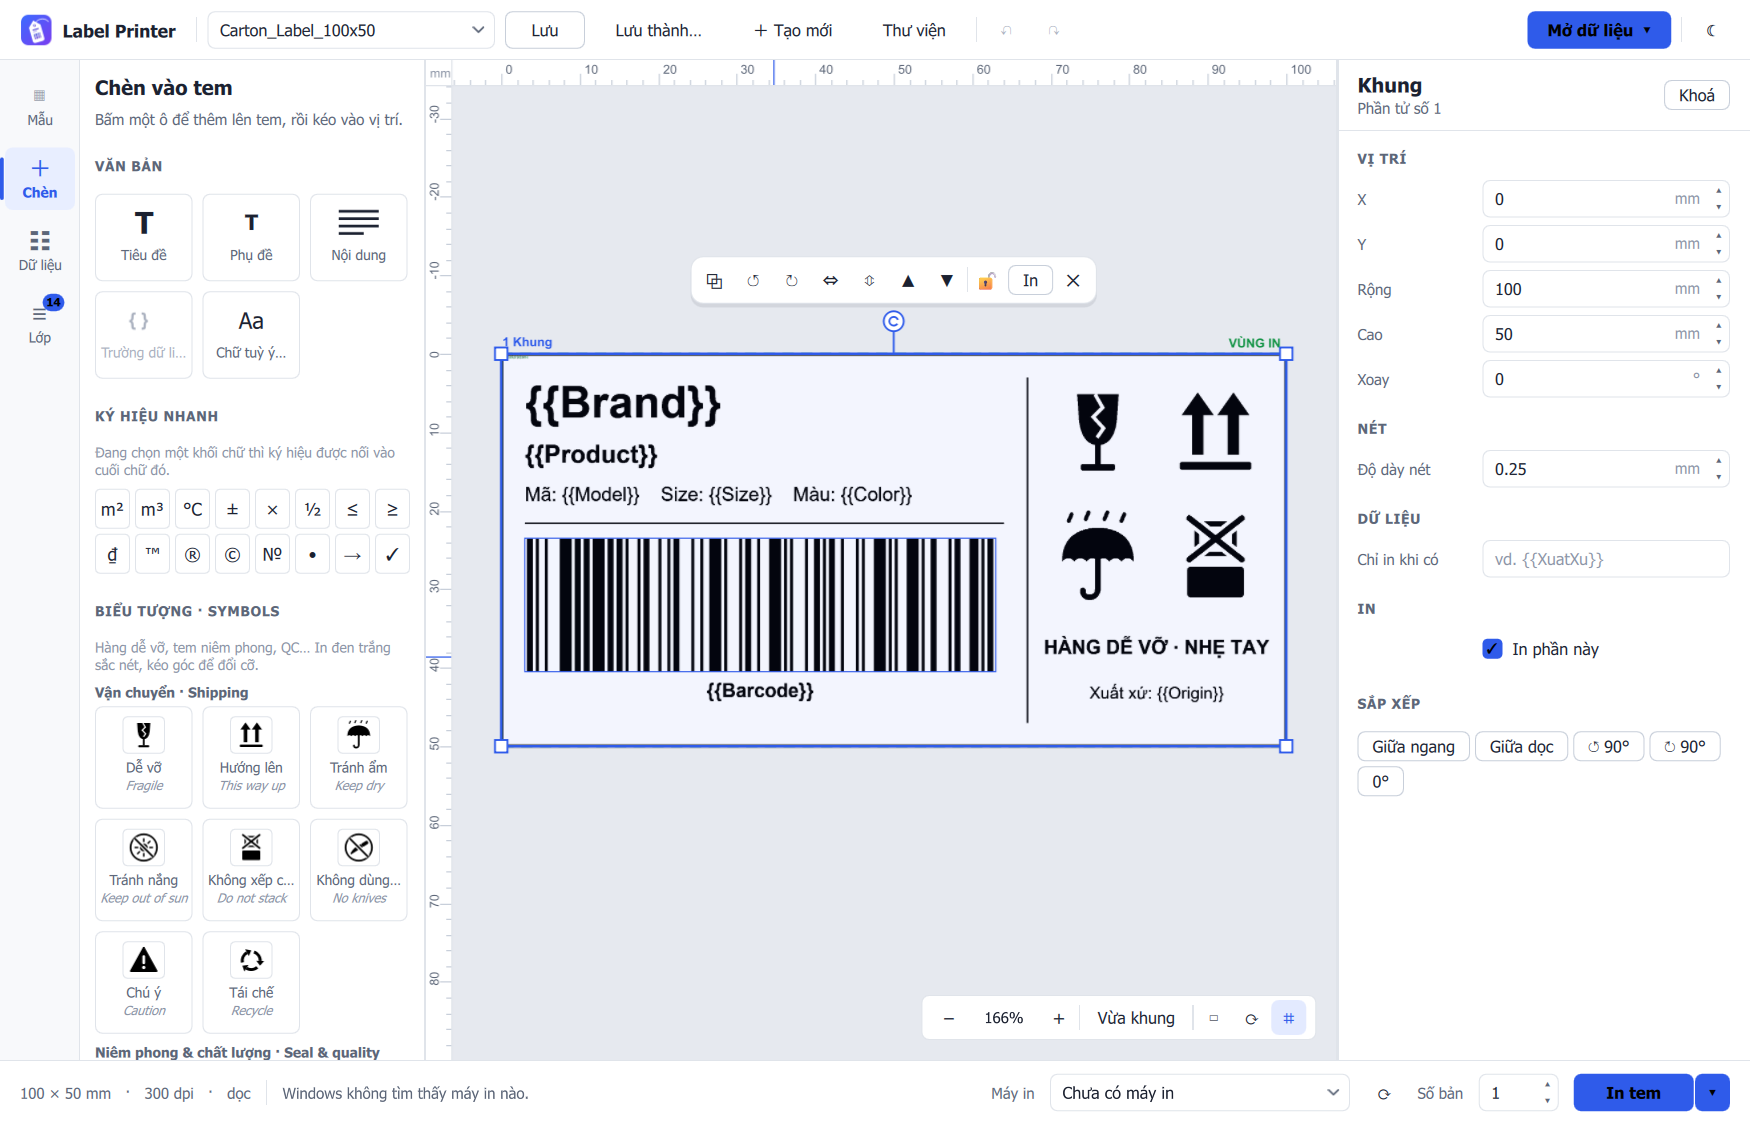
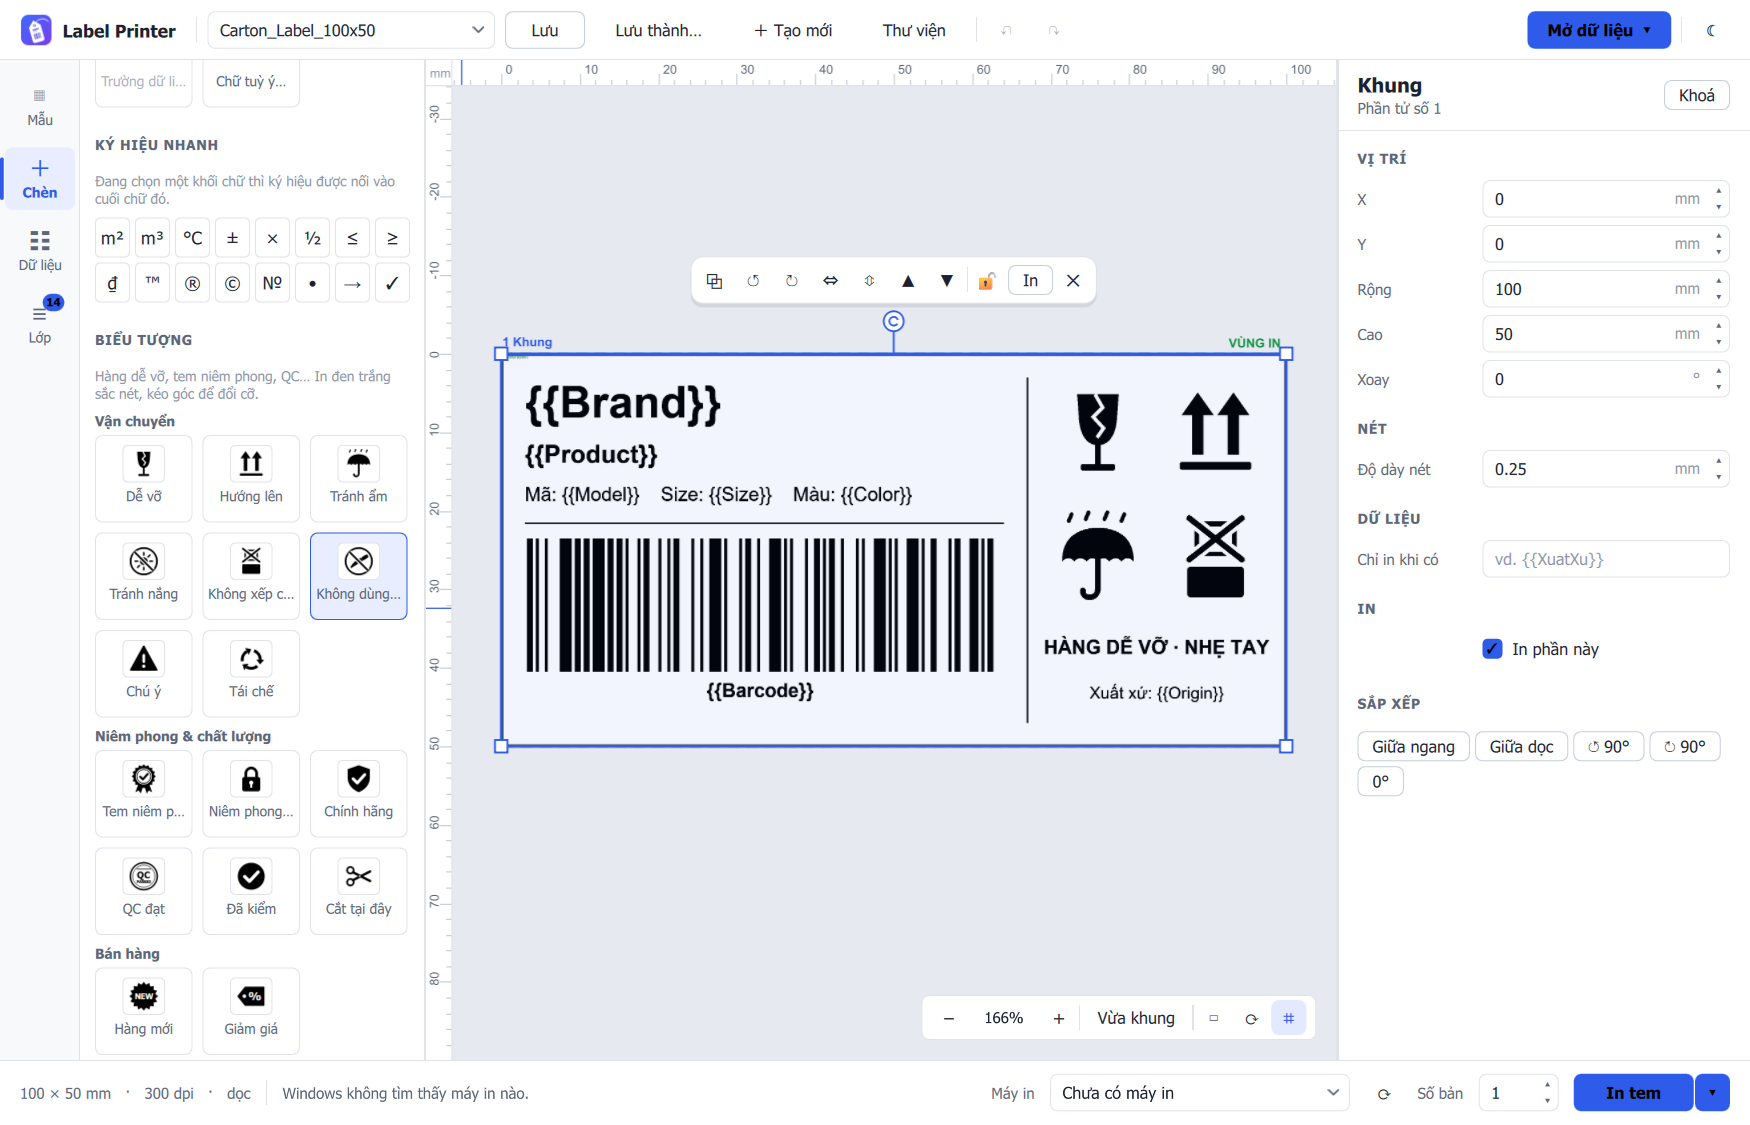
Symbol names follow the app language; release 22.5.2
- Insert palette shows each symbol's name in the UI language only (Vietnamese), no English second line.
- Font test pattern prints a neutral sample line.

Changed region(s): [[0.0309, 0.0622, 0.2469, 0.84], [0.0617, 0.84, 0.216, 0.9644]]

diff --git a/labelapp/ui/qml/panels/LeftPanel.qml b/labelapp/ui/qml/panels/LeftPanel.qml
@@ -149,20 +149,22 @@ Panel {
                         }
                     }
 
-                    SectionHeader { text: "Biểu tượng · Symbols"; Layout.fillWidth: true; Layout.leftMargin: Theme.s3; Layout.rightMargin: Theme.s3; Layout.topMargin: Theme.s2 }
+                    SectionHeader { text: "Biểu tượng"; Layout.fillWidth: true; Layout.leftMargin: Theme.s3; Layout.rightMargin: Theme.s3; Layout.topMargin: Theme.s2 }
                     Text { text: "Hàng dễ vỡ, tem niêm phong, QC… In đen trắng sắc nét, kéo góc để đổi cỡ."; Layout.fillWidth: true
                         Layout.leftMargin: Theme.s3; Layout.rightMargin: Theme.s3; wrapMode: Text.Wrap
                         font.family: Theme.fontFamily; font.pixelSize: Theme.fsXs; color: Theme.textFaint }
                     Repeater {
+                        // t = name shown in the app (its UI language, Vietnamese); e = English name, used only by the
+                        // README symbol gallery (tools/make_symbol_sheet.py).
                         model: [
-                            { title: "Vận chuyển · Shipping", items: [
+                            { title: "Vận chuyển", items: [
                                 { k: "fragile", t: "Dễ vỡ", e: "Fragile" }, { k: "this_way_up", t: "Hướng lên", e: "This way up" }, { k: "keep_dry", t: "Tránh ẩm", e: "Keep dry" },
                                 { k: "keep_away_sun", t: "Tránh nắng", e: "Keep out of sun" }, { k: "do_not_stack", t: "Không xếp chồng", e: "Do not stack" },
                                 { k: "no_knife", t: "Không dùng dao", e: "No knives" }, { k: "warning", t: "Chú ý", e: "Caution" }, { k: "recycle", t: "Tái chế", e: "Recycle" } ] },
-                            { title: "Niêm phong & chất lượng · Seal & quality", items: [
+                            { title: "Niêm phong & chất lượng", items: [
                                 { k: "seal", t: "Tem niêm phong", e: "Seal" }, { k: "seal_lock", t: "Niêm phong khoá", e: "Sealed" }, { k: "genuine", t: "Chính hãng", e: "Genuine" },
                                 { k: "qc_pass", t: "QC đạt", e: "QC passed" }, { k: "tick", t: "Đã kiểm", e: "Checked" }, { k: "scissors", t: "Cắt tại đây", e: "Cut here" } ] },
-                            { title: "Bán hàng · Retail", items: [ { k: "new_burst", t: "Hàng mới", e: "New" }, { k: "sale", t: "Giảm giá", e: "Sale" } ] }
+                            { title: "Bán hàng", items: [ { k: "new_burst", t: "Hàng mới", e: "New" }, { k: "sale", t: "Giảm giá", e: "Sale" } ] }
                         ]
                         delegate: ColumnLayout {
                             required property var modelData
@@ -177,7 +179,7 @@ Panel {
                                     delegate: PaletteTile {
                                         required property var modelData
                                         width: ins.tileW; source: Qt.resolvedUrl("../../resources/symbols/" + modelData.k + ".svg")
-                                        text: modelData.t; subtext: modelData.e; tip: modelData.t + " — " + modelData.e
+                                        text: modelData.t; tip: modelData.t
                                         onClicked: Doc.addSymbol(modelData.k)
                                     }
                                 }

diff --git a/labelapp/ui/qml/components/PaletteTile.qml b/labelapp/ui/qml/components/PaletteTile.qml
@@ -11,9 +11,7 @@ C.AbstractButton {
     property int glyphSize: 20
     property bool glyphBold: false
     property string tip: ""
-    property string subtext: ""       // optional second line (English name of a symbol)
-    implicitWidth: 84; implicitHeight: subtext.length > 0 ? 82 : 70
-    height: implicitHeight
+    implicitWidth: 84; implicitHeight: 70
     hoverEnabled: true
     focusPolicy: Qt.TabFocus
 
@@ -106,15 +104,6 @@ C.AbstractButton {
             horizontalAlignment: Text.AlignHCenter; elide: Text.ElideRight
             font.family: Theme.fontFamily; font.pixelSize: Theme.fsXs; font.weight: Font.Medium
             color: b.enabled ? Theme.textMuted : Theme.disabledFg
-            Text {
-                visible: b.subtext.length > 0
-                anchors.top: parent.bottom; anchors.topMargin: 1
-                width: parent.width
-                text: b.subtext
-                horizontalAlignment: Text.AlignHCenter; elide: Text.ElideRight
-                font.family: Theme.fontFamily; font.pixelSize: 10; font.italic: true
-                color: Theme.textFaint
-            }
         }
     }
     C.ToolTip.visible: hovered && tip.length > 0

diff --git a/labelapp/core/test_patterns.py b/labelapp/core/test_patterns.py
@@ -44,7 +44,7 @@ def make_text_quality_test_cfg(base_cfg):
     samples=[("Verdana",3.0,False),("Verdana",3.5,False),("Verdana",4.0,False),("Tahoma",4.0,False),("Tahoma",4.5,True),("Tahoma",5.5,True)]
     for font,size,bold in samples:
         if y+3.2 > oy+h-1: break
-        cfg["elements"].append({"type":"text","text":f"{font} {size:g}pt  Tiếng Việt: NHÀ NHẬP KHẨU  8,800,000 VNĐ","x":left,"y":y,"w":max(8,w-3),"h":3.0,"font":font,"font_size":size,"bold":bold,"align":"left","wrap":False,"auto_fit":True,"min_font_size":max(2.8,size-0.8)})
+        cfg["elements"].append({"type":"text","text":f"{font} {size:g}pt  Tiếng Việt: HÀNG CHÍNH HÃNG  8,800,000 VNĐ","x":left,"y":y,"w":max(8,w-3),"h":3.0,"font":font,"font_size":size,"bold":bold,"align":"left","wrap":False,"auto_fit":True,"min_font_size":max(2.8,size-0.8)})
         y += 3.4
     return cfg
 

diff --git a/labelapp/version.py b/labelapp/version.py
@@ -2,7 +2,7 @@
 
 The release workflow reads ``__version__``: raising it on the default branch builds a new installer and publishes it.
 """
-__version__ = "22.5.1"
+__version__ = "22.5.2"
 
 # Public repository whose GitHub Releases hold the Windows installer (this repository).
 UPDATE_REPO = "mrdivein/label_printer"
